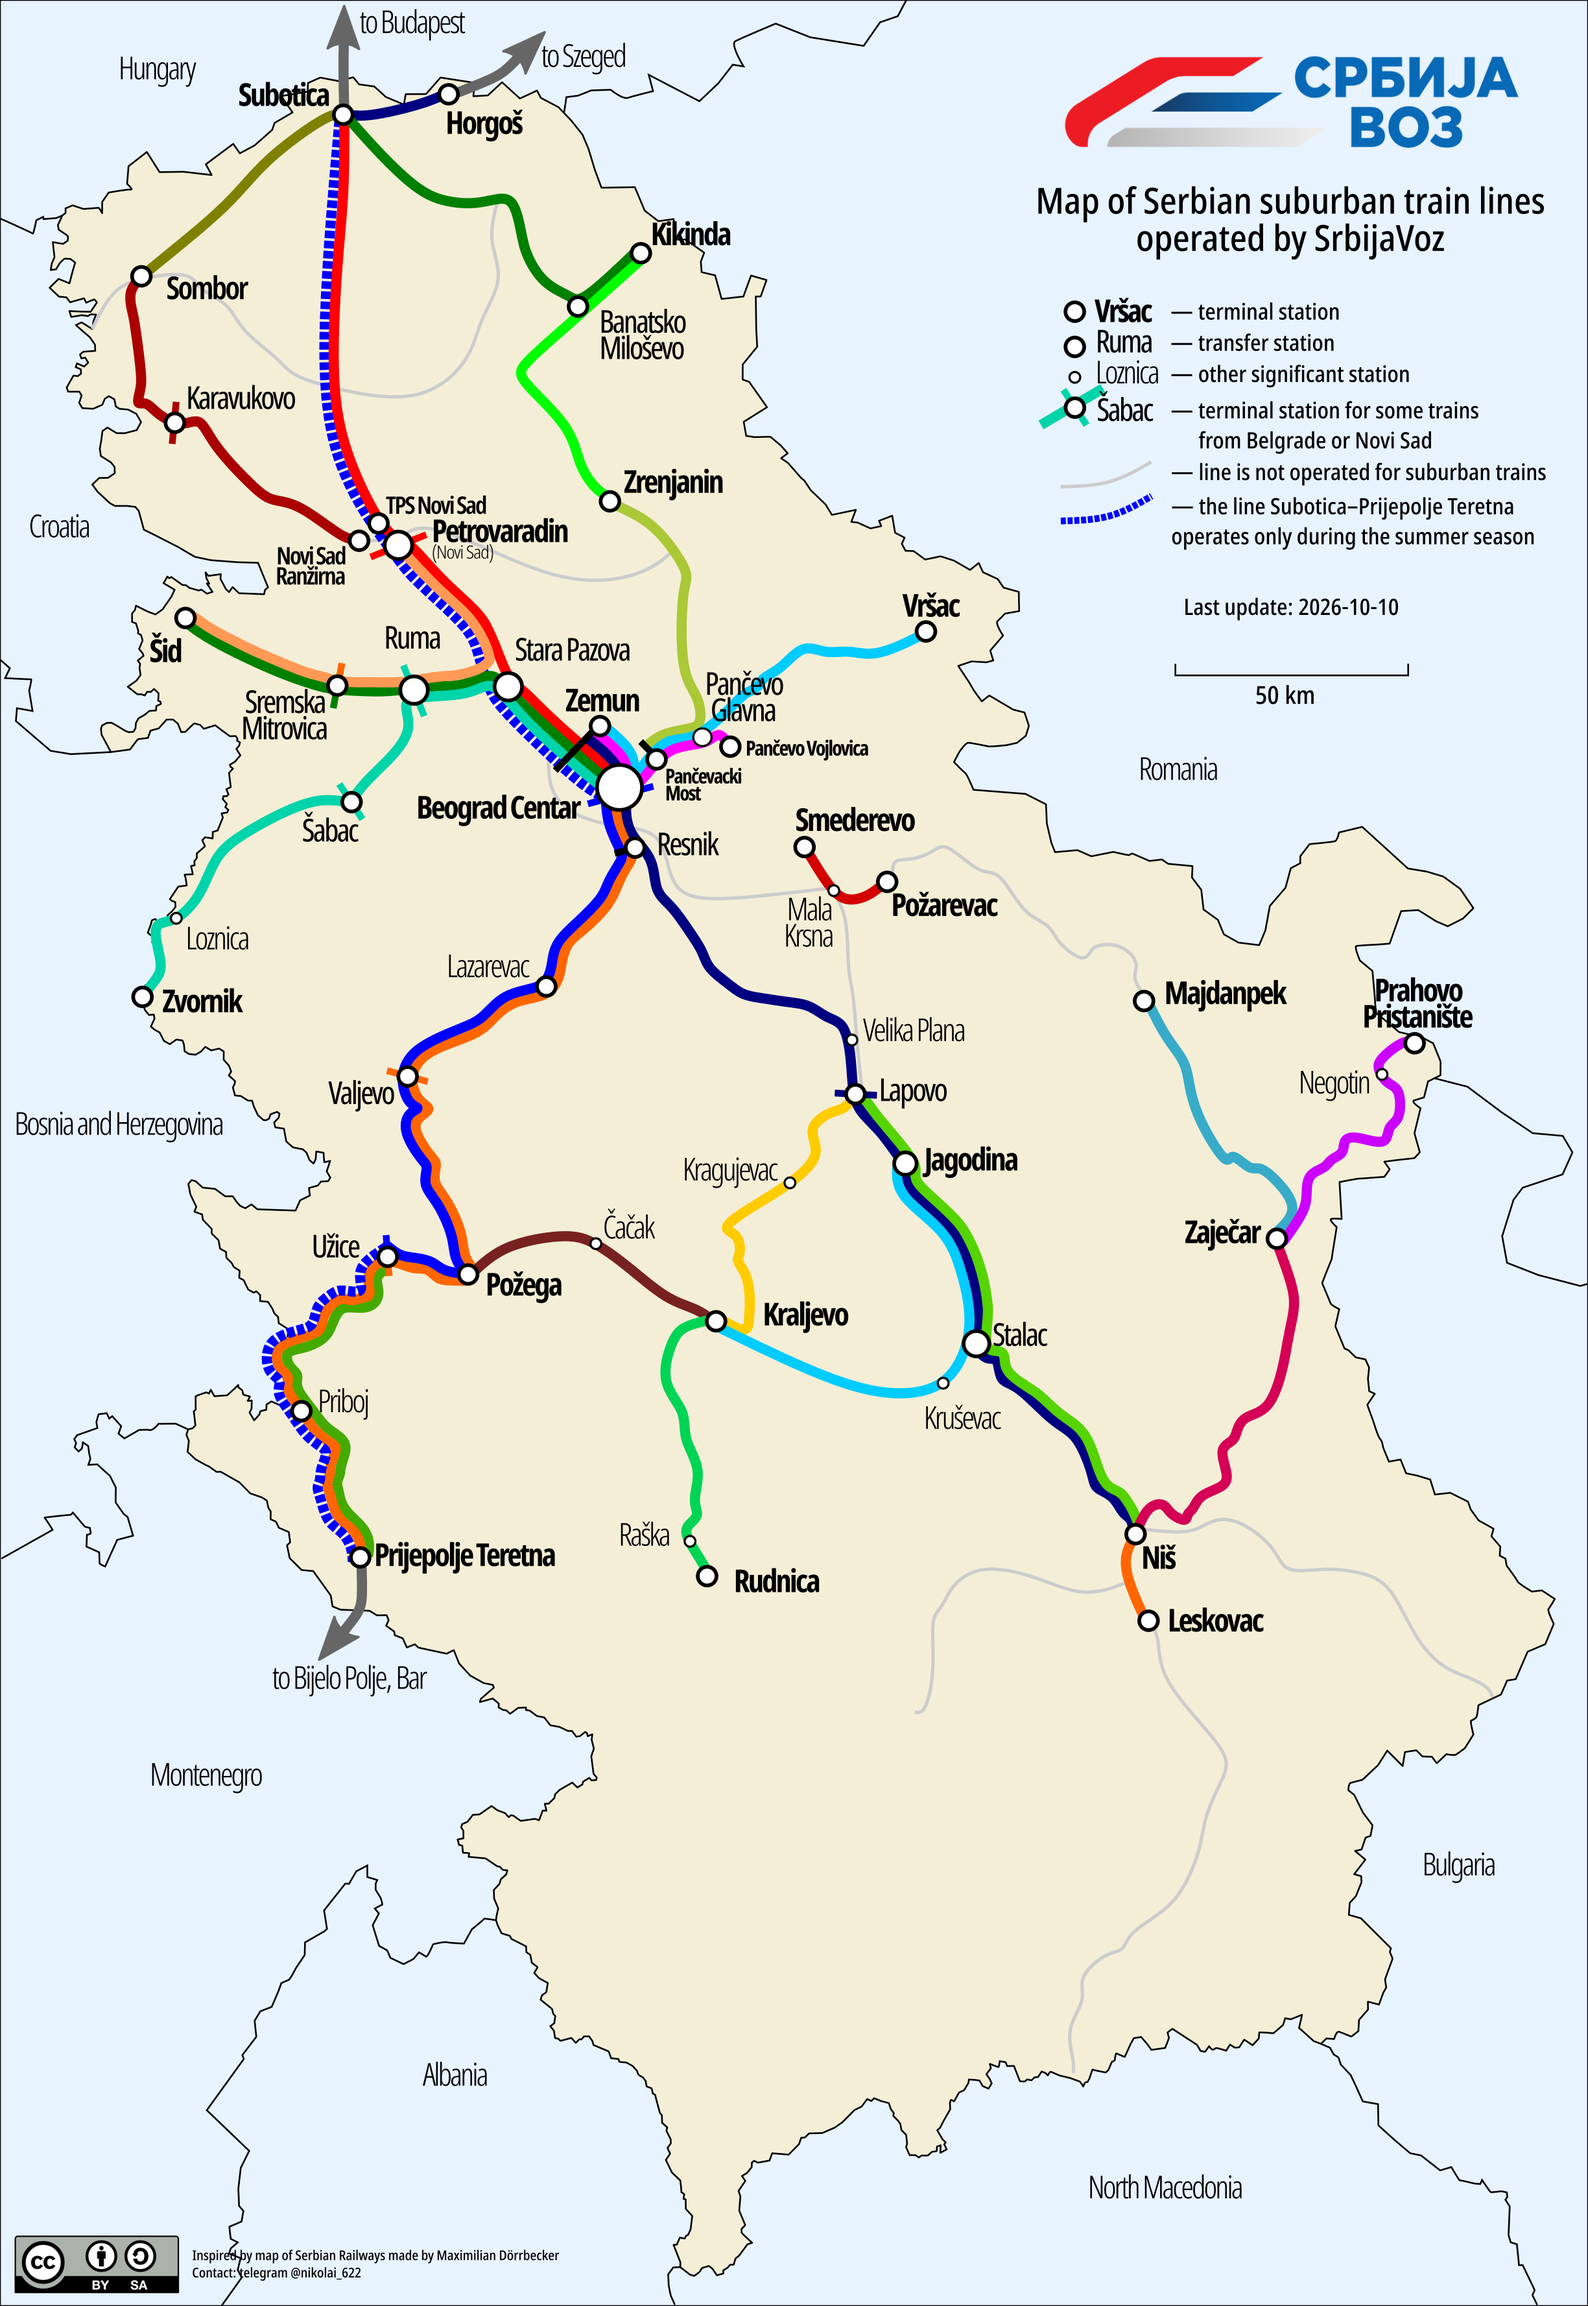
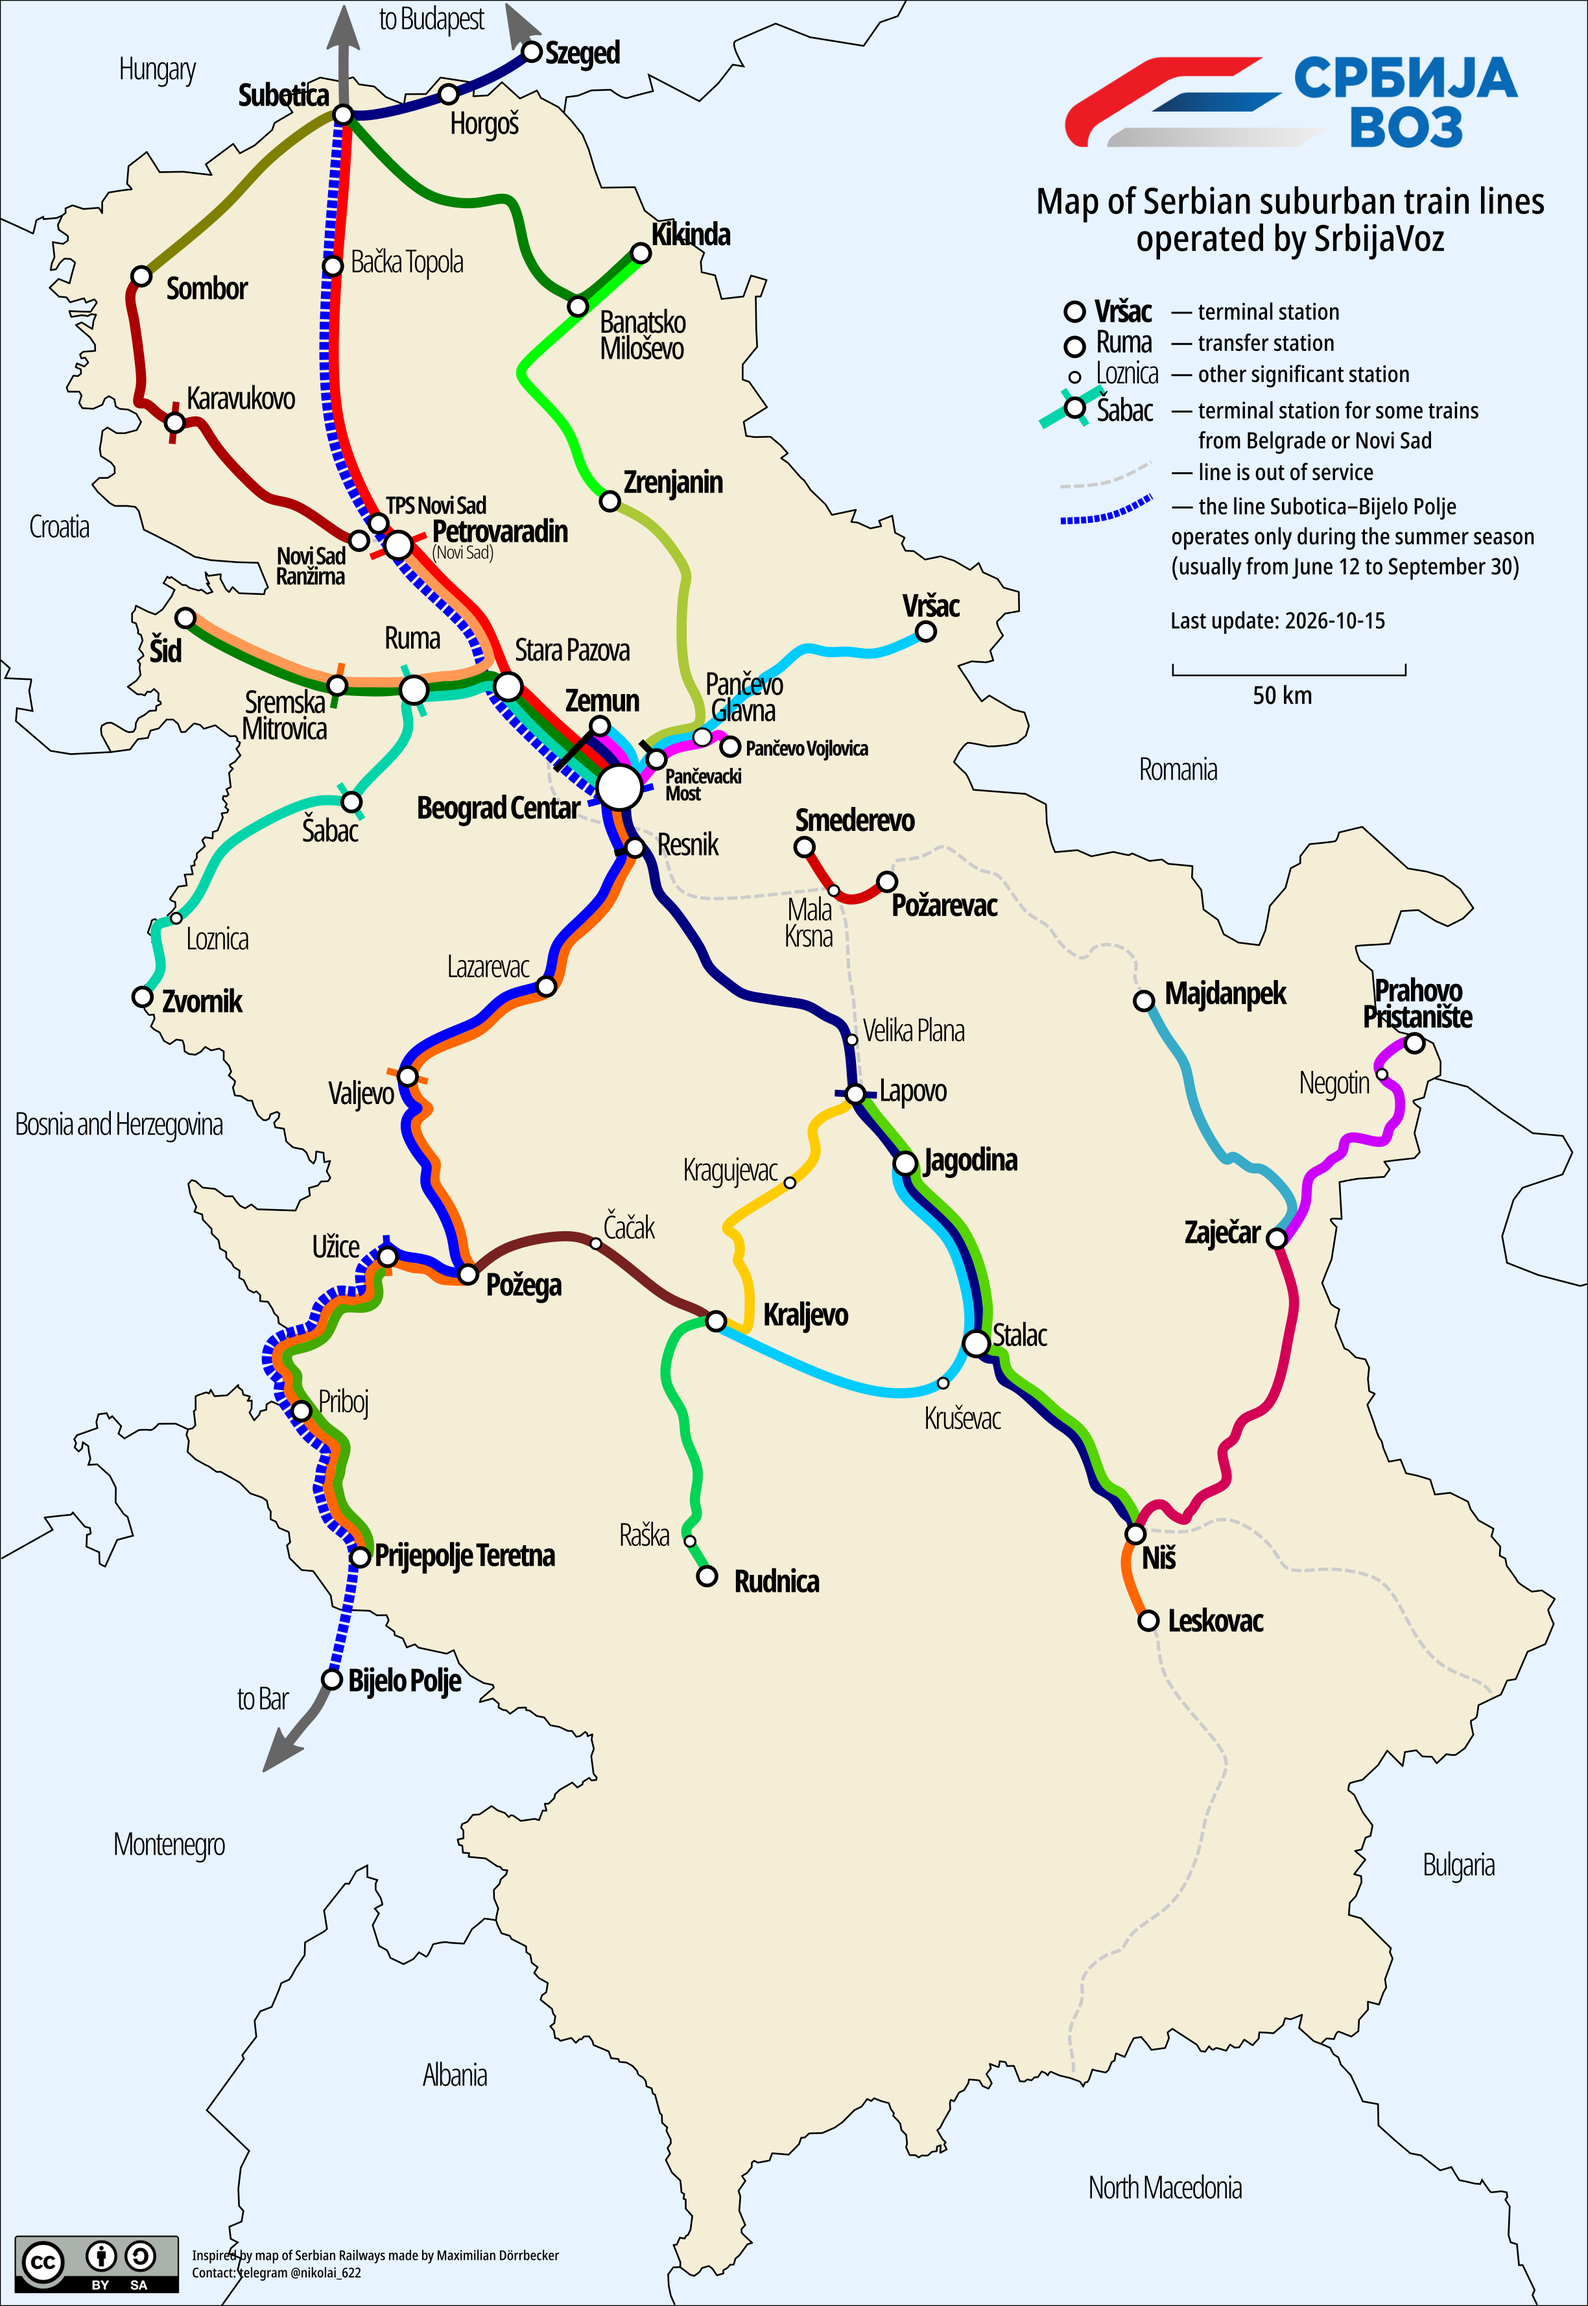
fix: extend lines to Boijelo polje, to Szeged, change style of out of service lines

diff --git a/README.md b/README.md
@@ -13,7 +13,7 @@ Site: https://serbian-railways.netlify.app/
   <img src="https://img.shields.io/badge/📥_Download-Map_Image-blue?style=for-the-badge" alt="Download Map Image">
 </a>
 
-Last map update: 2026-10-10
+Last map update: 2026-10-15
 
 Inspired by map of Serbian Railways made by Maximilian Dörrbecker
 
